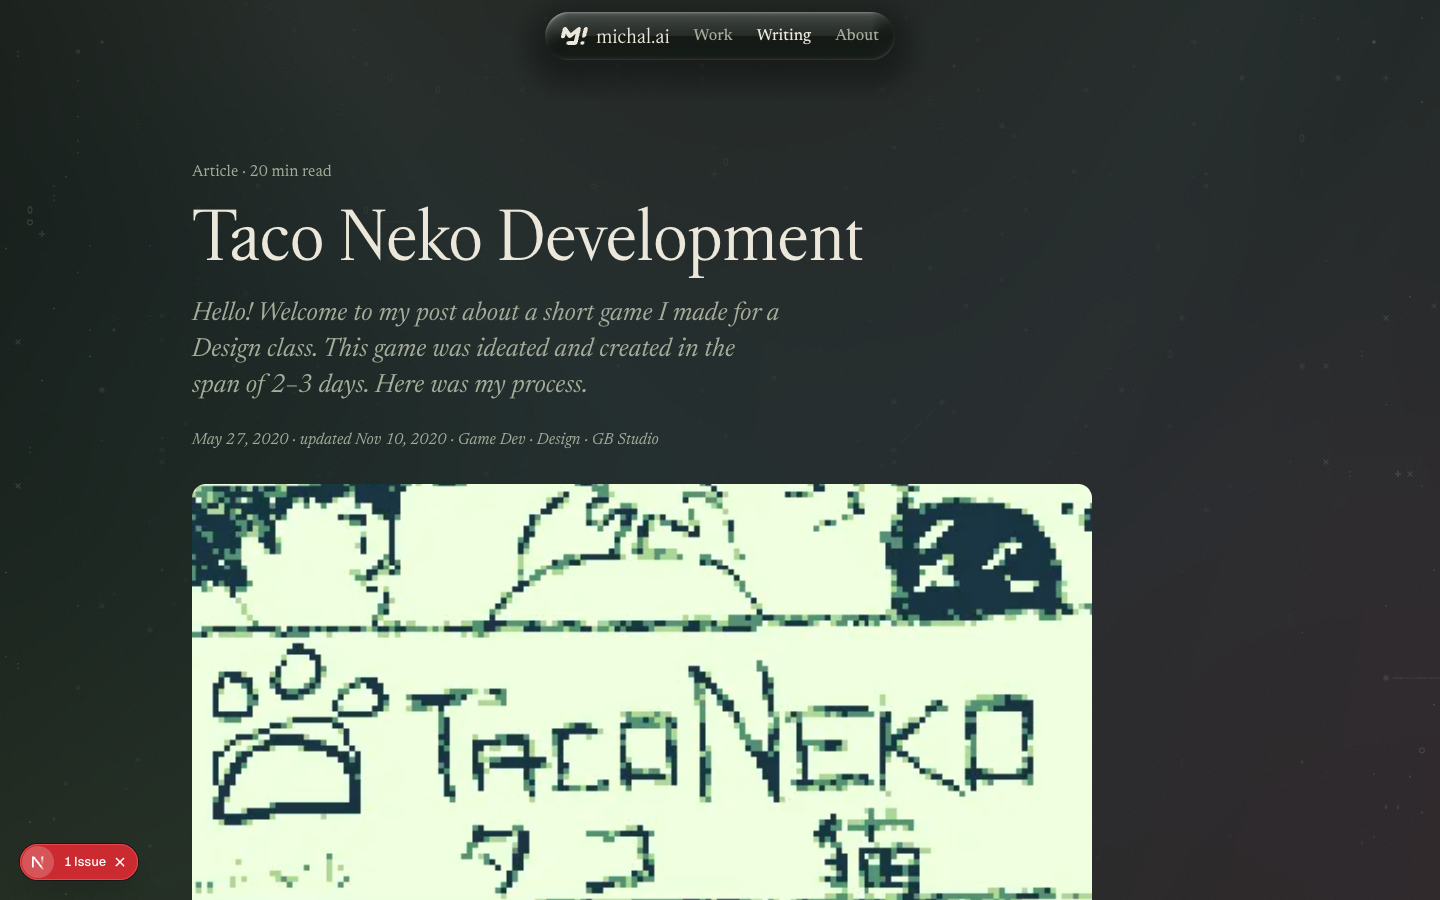
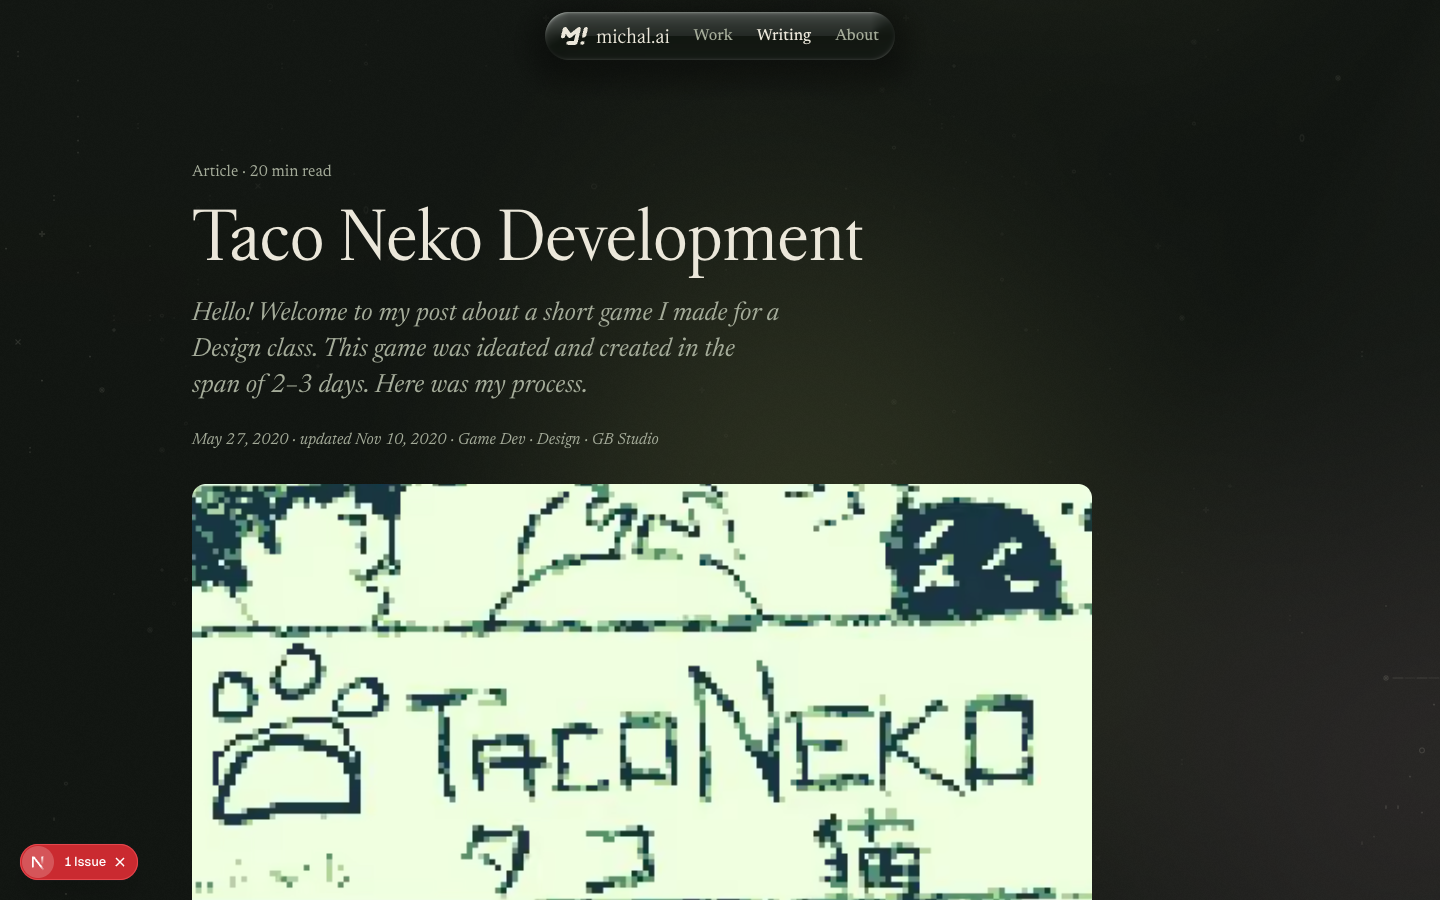
Backdrop: keep the paper warm and dominant (warm inks, cyan accent only, blob cut-off, warmth constraint), re-bake, re-shoot

diff --git a/apps/michal-ai/components/site/backdrop/config.ts b/apps/michal-ai/components/site/backdrop/config.ts
@@ -6,9 +6,10 @@ export type Pigment = readonly [number, number, number]
 
 /** Process-colour pigments, desaturated toward pastel. Multiplied into the paper like ink on stock. */
 export const PIGMENT = {
-  cyan: [0.3, 0.74, 0.88],
-  magenta: [0.9, 0.42, 0.66],
-  yellow: [1.0, 0.9, 0.34],
+  cyan: [0.5, 0.8, 0.92], // accent only: cyan is what turns beige grey-green
+  magenta: [0.95, 0.62, 0.74],
+  peach: [1.0, 0.78, 0.62],
+  yellow: [1.0, 0.92, 0.5],
 } as const satisfies Record<string, Pigment>
 
 export type BlobSpec = {
@@ -29,14 +30,18 @@ export type BlobSpec = {
 
 export const BACKDROP = {
   blobs: [
-    { pigment: 'cyan', x: 0.1, y: 0.2, r: 1.05, amp: 0.42, ax: 0.3, ay: 0.22, px: 280, py: 340 },
-    { pigment: 'magenta', x: 1.05, y: 0.9, r: 0.9, amp: 0.75, ax: 0.26, ay: 0.3, px: 330, py: 250 },
-    { pigment: 'yellow', x: 0.45, y: 1.45, r: 1.15, amp: 1.0, ax: 0.32, ay: 0.2, px: 300, py: 380 },
-    { pigment: 'cyan', x: 0.95, y: 2.0, r: 0.95, amp: 0.4, ax: 0.22, ay: 0.26, px: 360, py: 290 },
-    { pigment: 'magenta', x: 0.05, y: 2.35, r: 0.85, amp: 0.65, ax: 0.28, ay: 0.24, px: 310, py: 400 },
+    { pigment: 'yellow', x: 0.35, y: 0.15, r: 1.04, amp: 0.55, ax: 0.3, ay: 0.22, px: 280, py: 340 },
+    { pigment: 'magenta', x: 1.0, y: 0.75, r: 0.98, amp: 0.45, ax: 0.26, ay: 0.3, px: 330, py: 250 },
+    { pigment: 'peach', x: 0.15, y: 1.3, r: 1.09, amp: 0.6, ax: 0.32, ay: 0.2, px: 300, py: 380 },
+    { pigment: 'cyan', x: 0.9, y: 1.9, r: 0.64, amp: 0.3, ax: 0.22, ay: 0.26, px: 360, py: 290 },
+    { pigment: 'yellow', x: 0.5, y: 2.3, r: 1.04, amp: 0.5, ax: 0.28, ay: 0.24, px: 310, py: 400 },
   ] satisfies BlobSpec[],
   /** Vertical repeat of the blob field, in U. The field tiles, so a long page never runs out of colour. */
   repeat: 2.6,
+  /** Blobs are cut off below this fraction of their peak weight (smoothstep), so the paper shows between them. */
+  blobCut: 0.6,
+  /** Warmth constraint (light mode, sRGB 0..1): backdrop R is at least B + this, and G never exceeds R. The paper has R-B = 0.047. */
+  warmMin: 0.03,
   /** Domain warp strength (U). Bends the round blobs into abstract shapes. */
   warp: 0.32,
   /** Hard floor on backdrop luma relative to the paper's luma (Rec.709 weights on the encoded sRGB values, which tracks perceived

diff --git a/apps/michal-ai/components/site/backdrop/shaders.ts b/apps/michal-ai/components/site/backdrop/shaders.ts
@@ -11,7 +11,7 @@ export const FS_LOW = `#version 300 es
 precision highp float;
 uniform vec2 uLow; uniform vec2 uView; uniform float uUnit; uniform float uT;
 uniform float uScrollB; uniform float uScrollR; uniform float uRepeat; uniform float uWarp;
-uniform float uFloorL; uniform float uCeilD; uniform float uGlowD; uniform float uDark;
+uniform float uCut; uniform float uWarm; uniform float uFloorL; uniform float uCeilD; uniform float uGlowD; uniform float uDark;
 uniform vec4 uBlob[${NB}]; uniform vec3 uPig[${NB}];
 uniform vec3 uPaperL; uniform vec3 uPaperHi; uniform vec3 uPaperD;
 uniform vec4 uRay; uniform float uRayD; uniform float uDens;
@@ -36,7 +36,7 @@ void main(){
     vec2 d = q - uBlob[i].xy;
     d.y = mod(d.y + uRepeat * .5, uRepeat) - uRepeat * .5;
     float r = uBlob[i].z;
-    float k = exp(-2.2 * dot(d, d) / (r * r));
+    float k = clamp((exp(-2.2 * dot(d, d) / (r * r)) - uCut) / (1. - uCut), 0., 1.); k *= k;
     float c = clamp(uBlob[i].w * k, 0., 1.);
     tint *= 1. - c * (1. - uPig[i]);
     add += uPig[i] * c;
@@ -49,8 +49,13 @@ void main(){
   float n0 = rayAt(ang, uT);
   float ray = smoothstep(.42, .78, n0) * (.8 + .2 * sin(uT * .12 + ang * 2.)) * exp(-dist * 1.1) * smoothstep(0., .15, dist);
   float fr = (smoothstep(.42, .78, rayAt(ang + .03, uT)) - smoothstep(.42, .78, rayAt(ang - .03, uT))) * exp(-dist * 1.1);
-  tint *= 1. - clamp(fr, 0., 1.) * uRay.w * (1. - vec3(.3, .74, .88));
-  tint *= 1. - clamp(-fr, 0., 1.) * uRay.w * (1. - vec3(.9, .42, .66));
+  tint *= 1. - clamp(fr, 0., 1.) * uRay.w * (1. - vec3(.95, .62, .74));
+  tint *= 1. - clamp(-fr, 0., 1.) * uRay.w * (1. - vec3(1., .9, .45));
+  // light: warmth constraint (R >= B + margin, G <= R: no grey-green, no mint), then the hard luminance floor.
+  // Both are convex constraints the paper satisfies, so pulling the ink amount back toward the paper keeps them true.
+  vec3 pc = uPaperL * tint;
+  pc.b = min(pc.b, pc.r - uWarm); pc.g = min(pc.g, pc.r);
+  tint = pc / uPaperL;
   // light: hard luminance floor, then lift the paper in the shafts
   float rr = dot(uPaperL * tint, vec3(.2126, .7152, .0722)) / dot(uPaperL, vec3(.2126, .7152, .0722));
   if (rr < uFloorL) { float kk = (1. - uFloorL) / (1. - rr); tint = 1. - (1. - tint) * kk; }

diff --git a/apps/michal-ai/components/site/backdrop/engine.ts b/apps/michal-ai/components/site/backdrop/engine.ts
@@ -8,7 +8,7 @@ export type EngineHooks = {
 
 type Prog = { p: WebGLProgram; u: Record<string, WebGLUniformLocation | null> }
 
-const UNIFORMS_LOW = ['uLow', 'uView', 'uUnit', 'uT', 'uScrollB', 'uScrollR', 'uRepeat', 'uWarp', 'uFloorL', 'uCeilD', 'uGlowD', 'uDark', 'uBlob[0]', 'uPig[0]', 'uPaperL', 'uPaperHi', 'uPaperD', 'uRay', 'uRayD', 'uDens']
+const UNIFORMS_LOW = ['uLow', 'uView', 'uUnit', 'uT', 'uScrollB', 'uScrollR', 'uRepeat', 'uWarp', 'uCut', 'uWarm', 'uFloorL', 'uCeilD', 'uGlowD', 'uDark', 'uBlob[0]', 'uPig[0]', 'uPaperL', 'uPaperHi', 'uPaperD', 'uRay', 'uRayD', 'uDens']
 const UNIFORMS_COMP = ['uLowTex', 'uRes', 'uDpr', 'uCell', 'uOff', 'uT', 'uDark', 'uGlyphOn', 'uShootOn', 'uInkL', 'uInkD', 'uMax', 'uDensity', 'uTwinkle', 'uConst', 'uGrain', 'uThin', 'uShoot', 'uLens[0]', 'uLensR[0]', 'uLensN', 'uLensP', 'uRim']
 
 /**
@@ -199,6 +199,8 @@ export function createBackdrop(canvas: HTMLCanvasElement, hooks: EngineHooks): (
     gl.uniform1f(a.uScrollR, sy * C.parallax.rays)
     gl.uniform1f(a.uRepeat, C.repeat)
     gl.uniform1f(a.uWarp, C.warp)
+    gl.uniform1f(a.uCut, C.blobCut)
+    gl.uniform1f(a.uWarm, C.warmMin)
     gl.uniform1f(a.uFloorL, C.lumFloorLight)
     gl.uniform1f(a.uCeilD, C.lumCeilDark)
     gl.uniform1f(a.uGlowD, C.darkGlow)

diff --git a/apps/michal-ai/docs/backdrop.md b/apps/michal-ai/docs/backdrop.md
@@ -25,9 +25,10 @@ bleeding into cream stock.
 Layers, back to front, in one canvas and one WebGL2 context:
 
 1. Paper base, the exact token colour (so there is no seam against CSS-coloured areas).
-2. Five very large blobs (radius 0.85 to 1.15 of U, U = max(viewport width, 700px), so each is 1.7 to 2.3 viewport widths across).
-   Domain-warped, gaussian falloff, blended subtractively (multiply), so overlaps mix like inks (cyan plus yellow gives a pale
-   green). They drift on orbits with 250 to 400 second periods and move at 0.15 of page scroll. The field repeats vertically
+2. Five large soft blobs, warm inks only (yellow x2, peach, soft magenta) and one small cyan accent, because cyan is what
+   turns beige grey-green. Gaussian falloff cut off at 0.6 of peak and squared, so the paper shows between them: the paper stays
+   the dominant colour (about 60 percent of the viewport within 8 levels per channel of `--paper`, never below 44 percent). Domain-warped,
+   blended subtractively (multiply). A warmth constraint in the shader keeps R >= B + 0.03 and G <= R, so no grey or mint. They drift on orbits with 250 to 400 second periods and move at 0.15 of page scroll. The field repeats vertically
    (2.6 U), so long pages never run out of colour.
 3. God rays from an off-screen point at the top right: a few wide shafts from angular value noise, slowly breathing, lifting the
    paper toward a warm white and leaving a faint cyan/magenta fringe on their edges. 0.06 of scroll.
@@ -84,6 +85,7 @@ See the file for the current values; the important ones:
 
 | Key | Meaning |
 | --- | --- |
+| `blobCut`, `warmMin` | blob cut-off (0.6) and the R-B warmth margin (0.03) |
 | `blobs[]` | five blobs: pigment, centre (x, y in U), radius `r`, peak coverage `amp`, drift amplitude and period per axis |
 | `PIGMENT` | pastel process colours multiplied into the paper |
 | `repeat`, `warp` | vertical repeat of the field (U), domain warp strength (U) |
@@ -110,13 +112,15 @@ Contrast is WCAG 2.x on the token colours: `--ink` and `--ink-muted` (light `#18
 | | Light | Dark |
 | --- | --- | --- |
 | Paper | `#f4f1e8`, Y 0.880 | `#121612`, Y 0.0075 |
-| Darkest (light) / brightest (dark) backdrop pixel | `#e0e0db`, Y 0.743 = 0.844 of paper's Y | `#272f2f`, Y 0.0267 (a 3.6x lift of a near-black, still near-black) |
-| Luma floor / ratio (encoded sRGB luma vs paper) | enforced 0.93; measured min 0.928 (8-bit rounding), max 0.945 | n/a (ceiling on Y instead) |
-| `--ink` on that pixel | 12.46 | 11.07 |
-| `--ink-muted` on that pixel | **5.28** | **5.78** |
-| `--ink` on that pixel plus a glyph at the in-column cap (0.22 x 0.3 thinning) and grain pushing the wrong way | 10.87 | 9.03 |
-| `--ink-muted`, same worst case | **4.60** | **4.71** |
-| Margins only (no body text there): glyph at the full 0.22 cap | ink 7.97, muted 3.38 | ink 5.77, muted 3.01 |
+| Darkest (light) / brightest (dark) backdrop pixel | `#f1dcd3` (peach), Y 0.746 = 0.848 of paper's Y | `#2d2e25`, Y 0.0265 |
+| Luma floor / ratio (encoded sRGB luma vs paper) | enforced 0.93; measured min 0.929 (8-bit rounding), max 1.014 | n/a (ceiling on Y instead) |
+| Share of viewport within 8 levels per channel of paper | mean 60 percent, worst frame 44 percent | mean 72 percent, worst 57 percent |
+| Warmth: min(R - B), max(G - R) over all pixels (8-bit) | +7, 0 (never grey or green) | n/a |
+| `--ink` on that pixel | 12.51 | 11.10 |
+| `--ink-muted` on that pixel | **5.30** | **5.80** |
+| `--ink` on that pixel plus a glyph at the in-column cap (0.22 x 0.3 thinning) and grain pushing the wrong way | 10.91 | 9.05 |
+| `--ink-muted`, same worst case | **4.62** | **4.73** |
+| Margins only (no body text there): glyph at the full 0.22 cap | ink 8.00, muted 3.39 | ink 5.78, muted 3.02 |
 | For reference: ink / muted on plain paper | 14.62 / 6.19 | 14.77 / 7.71 |
 
 So 4.5:1 holds for both inks everywhere inside the reading column (`|x - centre| < min(540px, half the viewport)`, which is the whole
